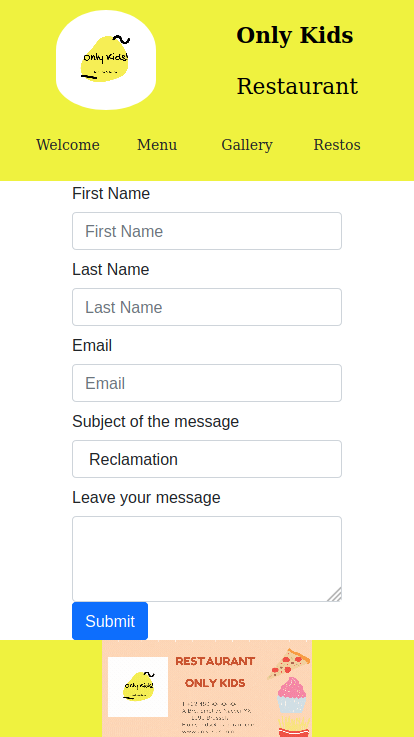
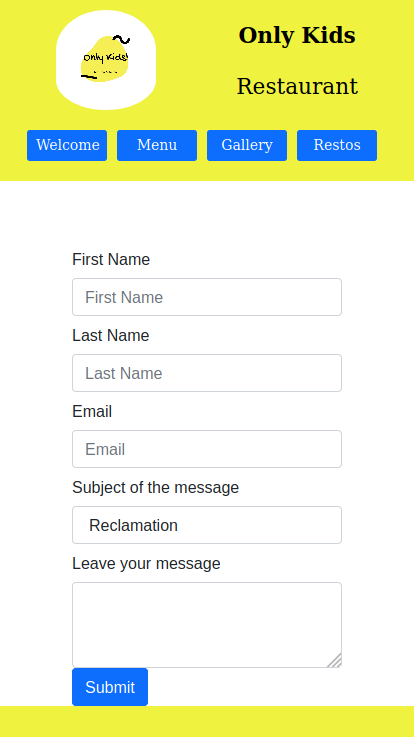
contact form customized

diff --git a/welcome.html b/welcome.html
@@ -21,24 +21,20 @@
 
     <!--header-->
 
-
-
     <header class="jumbotron fixed-top">
 
-        <div class="row mx-1">
+        <div class="d-flex justify-content-around align-items-center">
 
-            <div class="d-flex justify-content-around align-items-center">
+            <img id="logo" src="pictures/logo.png" alt="" width="100px">
+            <h4> <b>Only Kids</b> <br> <br> Restaurant </h4>
 
-                <img id="logo" src="pictures/logo.png" alt="" width="100px">
-                <h4> <b>Only Kids</b> <br> <br> Restaurant </h4>
-
-            </div>
-            <div class="col-12 d-flex justify-content-center menu">
-                <a class="btn btn-primary btn-sm" href="menu.html" role="button">Menu</a>
-                <a class="btn btn-primary btn-sm" href="pictures.html" role="button">Gallery</a>
-                <a class="btn btn-primary btn-sm" href="restaurants.html" role="button">Restos</a>
-                <a class="btn btn-primary btn-sm" href="contact.html" role="button">Contact</a>
-            </div>
+        </div>
+        <div class="col-12 d-flex justify-content-center menu">
+            <a class="btn btn-primary btn-sm" href="menu.html" role="button">Menu</a>
+            <a class="btn btn-primary btn-sm" href="pictures.html" role="button">Gallery</a>
+            <a class="btn btn-primary btn-sm" href="restaurants.html" role="button">Restos</a>
+            <a class="btn btn-primary btn-sm" href="contact.html" role="button">Contact</a>
+        </div>
         </div>
 
     </header>
@@ -51,13 +47,14 @@
 
     <main class="container-fluid">
 
-        <div class="row">
+        <div class="row ms-5">
             <div class="col-6">
 
                 <div class="panel panel-success">
                     <div class="panel-heading">
                         <h3 class="panel-title">Our upcoming Events</h3>
-                        <p>Please find out our new breakfast meals. You are welcome to taste them at our restaurant. </p>
+                        <p>Please find out our new breakfast meals. You are welcome to taste them at our restaurant.
+                        </p>
 
                     </div>
 

diff --git a/pictures_2.html b/pictures_2.html
@@ -32,10 +32,10 @@
 
             </div>
             <div class="col-12 d-flex justify-content-center menu">
-                <a class="btn btn-sm" href="welcome" role="button">Welcome</a>
-                <a class="btn btn-sm" href="menu.html" role="button">Menu</a>
-                <a class="btn btn-sm" href="restaurants.html" role="button">Restos</a>
-                <a class="btn btn-sm" href="contact.html" role="button">Contact</a>
+                <a class="btn btn-primary btn-sm" href="welcome" role="button">Welcome</a>
+                <a class="btn btn-primary btn-sm" href="menu.html" role="button">Menu</a>
+                <a class="btn btn-primary btn-sm" href="restaurants.html" role="button">Restos</a>
+                <a class="btn btn-primary btn-sm" href="contact.html" role="button">Contact</a>
 
             </div>
         </div>
@@ -64,7 +64,7 @@
                 </div>
             </div>
             <a class="carousel-control-prev" href="#carouselExampleControls" role="button" data-bs-slide="prev">
-                <span class="carousel-control-prev-icon bg-primary aria-hidden="true"></span>
+                <span class="carousel-control-prev-icon bg-primary aria-hidden=" true"></span>
                 <span class="visually-hidden">Previous</span>
             </a>
             <a class="carousel-control-next" href="#carouselExampleControls" role="button" data-bs-slide="next">

diff --git a/contact.html b/contact.html
@@ -32,10 +32,10 @@
 
       </div>
       <div class="col-12 d-flex justify-content-center menu">
-        <a class="btn btn-sm" href="welcome.html" role="button">Welcome</a>
-        <a class="btn btn-sm" href="menu.html" role="button">Menu</a>
-        <a class="btn btn-sm" href="pictures.html" role="button">Gallery</a>
-        <a class="btn btn-sm" href="restaurants.html" role="button">Restos</a>
+        <a class="btn btn-primary btn-sm" href="welcome.html" role="button">Welcome</a>
+        <a class="btn btn-primary btn-sm" href="menu.html" role="button">Menu</a>
+        <a class="btn btn-primary btn-sm" href="pictures.html" role="button">Gallery</a>
+        <a class="btn btn-primary btn-sm" href="restaurants.html" role="button">Restos</a>
 
       </div>
     </div>
@@ -49,7 +49,7 @@
 
 
   <main class="container-fluid">
-    <form>
+    <form class="mx-5">
       <div class="form-group row mx-5">
         <label for="inputFirstName" class="col-sm-2 col-form-label">First Name</label>
         <div class="col-sm-10">
@@ -89,7 +89,7 @@
 
 
       <div class="form-group row mx-5">
-        <div class="col-sm-10">
+        <div class="col-sm-10 text-center p-3">
           <button type="submit" class="btn btn-primary">Submit</button>
         </div>
       </div>

diff --git a/restaurants.html b/restaurants.html
@@ -32,10 +32,10 @@
 
             </div>
             <div class="col-12 d-flex justify-content-center menu">
-                <a class="btn btn-sm" href="welcome.html" role="button">Welcome</a>
-                <a class="btn btn-sm" href="menu.html" role="button">Menu</a>
-                <a class="btn btn-sm" href="pictures.html" role="button">Gallery</a>
-                <a class="btn btn-sm" href="contact.html" role="button">Contact</a>
+                <a class="btn btn-primary btn-sm" href="welcome.html" role="button">Welcome</a>
+                <a class="btn btn-primary btn-sm" href="menu.html" role="button">Menu</a>
+                <a class="btn btn-primary btn-sm" href="pictures.html" role="button">Gallery</a>
+                <a class="btn btn-primary btn-sm" href="contact.html" role="button">Contact</a>
 
             </div>
         </div>

diff --git a/pictures_3.html b/pictures_3.html
@@ -32,10 +32,10 @@
 
             </div>
             <div class="col-12 d-flex justify-content-center menu">
-                <a class="btn btn-sm" href="welcome" role="button">Welcome</a>
-                <a class="btn btn-sm" href="menu.html" role="button">Menu</a>
-                <a class="btn btn-sm" href="restaurants.html" role="button">Restos</a>
-                <a class="btn btn-sm" href="contact.html" role="button">Contact</a>
+                <a class="btn btn-primary btn-sm" href="welcome" role="button">Welcome</a>
+                <a class="btn btn-primary btn-sm" href="menu.html" role="button">Menu</a>
+                <a class="btn btn-primary btn-sm" href="restaurants.html" role="button">Restos</a>
+                <a class="btn btn-primary btn-sm" href="contact.html" role="button">Contact</a>
 
             </div>
         </div>

diff --git a/style.css b/style.css
@@ -1,5 +1,6 @@
 body {
     min-height: 100vh;
+    font-family: Roboto Mono;
 }
 
 
@@ -11,16 +12,16 @@ body {
     font-size: 40px;
     line-height: 10px;
     color: #000000;
-    
+
 }
 
 
 
 #logo {
-   border-radius: 100px;
-   padding-top: 10px;
-   padding-bottom: 20px;
-   width: 100px;
+    border-radius: 100px;
+    padding-top: 10px;
+    padding-bottom: 20px;
+    width: 100px;
 
 }
 
@@ -35,19 +36,21 @@ body {
 
 .btn-primary {
     color: white;
-} 
+}
 
 /*main*/
 
 main {
+    margin-left: 500px;
     margin-top: 240px;
     flex-grow: 1;
 
 }
 
+
 .carousel img {
 
-     margin: auto;
+    margin: auto;
 
 }
 
@@ -55,14 +58,13 @@ main {
 
 
 
-header, footer{
-  background-color: rgba(239, 242, 63, 1);
-  
+header,
+footer {
+    background-color: rgba(239, 242, 63, 1);
+
 
 }
 
 #card {
     height: 120px;
 }
-
-

diff --git a/menu.html b/menu.html
@@ -57,7 +57,7 @@
             </li>
             <li class="list-group-item d-flex justify-content-between align-items-center">
                 Fresh bio fruits for kids &nbsp; &nbsp; &nbsp;
-                <img src="pictures/fruits_kids.jpg" alt="" width="120px">
+                <img src="pictures/dessert3.jpg" alt="" width="120px">
                 <span class="badge bg-primary rounded-pill">10$</span>
                 <button type="button" class="btn btn-primary">Order</button>
             </li>
